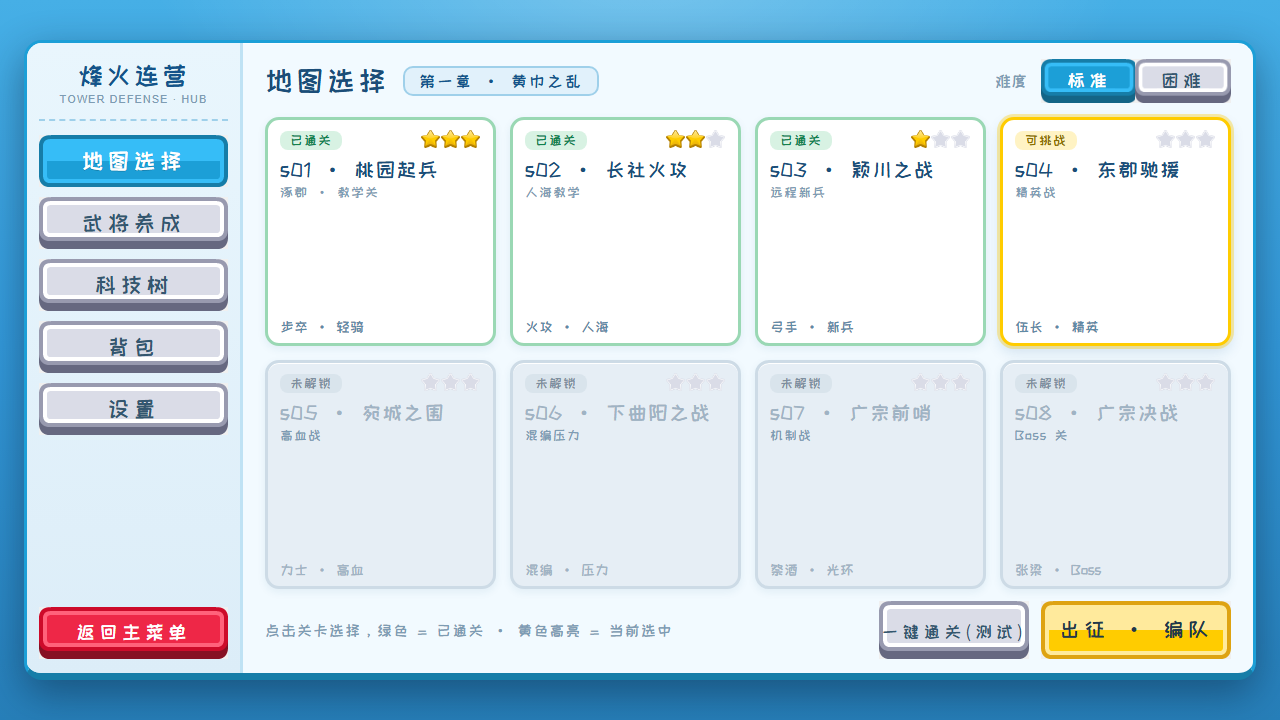
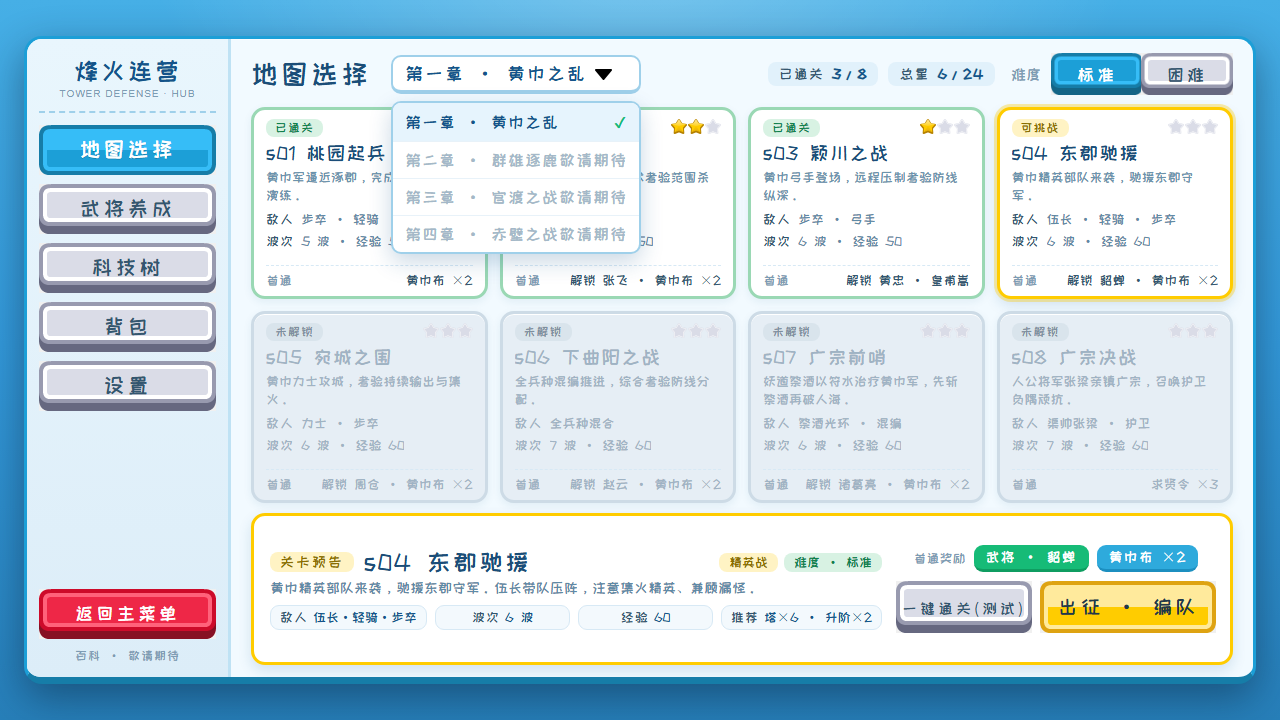
feat(v0.33.5): 阶段8·提交8延伸（程序0.8.8.5）——UI 概念图扩充与地图选关改版：大厅章节改顶部下拉+关卡卡片满档+底部关卡预告条+通关统计上移（ui_hub_map.png 覆盖更新），新增武将养成/科技树/背包/设置/编队五屏概念图（ui_develop·ui_tech·ui_inventory·ui_settings·ui_squad），科技树/背包/编队滚动容器兜底不撑爆，「出击费用」更名「建造费用」；UI_LAYOUT v0.14/GDD v0.33.5/README/project.godot 同步；冒烟/流程/存档契约/退出/养成刷新/转职弹窗/解锁复现回

diff --git a/README.md b/README.md
@@ -4,7 +4,7 @@
 
 ![游戏截图](docs/screenshot.png)
 
-## 当前状态：阶段 8 提交 5~8 完成（提交 5=职业技能收敛+虎贲重构+角色技能 v0.29.0 及修复延伸 0.8.5.1~0.8.5.6；提交 6=转职体系重构·职业级转职树 v0.31.0 / 0.8.6.0，延伸 0.8.6.1=v0.31.2 难度两档化+地图面板交互、0.8.6.2=v0.31.4 命中事件拆分（远程命中结算后计怒气/稳射）；提交 7=职业技能双轨 v0.32.0 / 0.8.7.0——6 个二转新技能接入（突袭/护卫/连矢/奇门/余音/震地）+ 强化显示规则 + 增益收敛档次 1 常驻光环桶，延伸 0.8.7.1=v0.32.1 武将养成切回整体重载、0.8.7.2=v0.32.2 一转确认弹窗修复（Godot4 canceled 信号）；提交 8=转职数值提升 v0.33.0 / 0.8.8.0——18 节点对照 SKILLS 4.1 三张表复核 + 非链式确认 + 效果型大招接入转职大招倍率（B-018）；延伸 0.8.8.1=v0.33.1 出征流程调整（编队页确认出战/返回选关/队伍记忆）+ 局内遗物永久使用 + 养成移除遗物页签、延伸 0.8.8.2=v0.33.2 编队羁绊标签裁剪修复（1/3 裁成 1/）+ 战场可建格悬停预览与引导文案澄清、延伸 0.8.8.3=v0.33.3 局内建造改拖拽（移除绿色+/推荐位/点击建造，武将虚影+攻击范围+绿红格提示，松手直建；卡片面板重设计）、延伸 0.8.8.4=v0.33.4 UI 视觉风格定稿与全局字体（Kenney 亮蓝概念图 docs/ui_concept/ + 站酷快乐体全局主题 assets/ui/ui_theme.tres））；下一步提交 9（游戏百科，原提交 5 放最后）→ 提交 10（数值基准测试，含增益收敛档次 2/3；职业/角色定位决策基准 v0.31.7）→ 阶段 9 待开发（文档 v0.33.4，程序 0.8.8.4）
+## 当前状态：阶段 8 提交 5~8 完成（提交 5=职业技能收敛+虎贲重构+角色技能 v0.29.0 及修复延伸 0.8.5.1~0.8.5.6；提交 6=转职体系重构·职业级转职树 v0.31.0 / 0.8.6.0，延伸 0.8.6.1=v0.31.2 难度两档化+地图面板交互、0.8.6.2=v0.31.4 命中事件拆分（远程命中结算后计怒气/稳射）；提交 7=职业技能双轨 v0.32.0 / 0.8.7.0——6 个二转新技能接入（突袭/护卫/连矢/奇门/余音/震地）+ 强化显示规则 + 增益收敛档次 1 常驻光环桶，延伸 0.8.7.1=v0.32.1 武将养成切回整体重载、0.8.7.2=v0.32.2 一转确认弹窗修复（Godot4 canceled 信号）；提交 8=转职数值提升 v0.33.0 / 0.8.8.0——18 节点对照 SKILLS 4.1 三张表复核 + 非链式确认 + 效果型大招接入转职大招倍率（B-018）；延伸 0.8.8.1=v0.33.1 出征流程调整（编队页确认出战/返回选关/队伍记忆）+ 局内遗物永久使用 + 养成移除遗物页签、延伸 0.8.8.2=v0.33.2 编队羁绊标签裁剪修复（1/3 裁成 1/）+ 战场可建格悬停预览与引导文案澄清、延伸 0.8.8.3=v0.33.3 局内建造改拖拽（移除绿色+/推荐位/点击建造，武将虚影+攻击范围+绿红格提示，松手直建；卡片面板重设计）、延伸 0.8.8.4=v0.33.4 UI 视觉风格定稿与全局字体（Kenney 亮蓝概念图 docs/ui_concept/ + 站酷快乐体全局主题 assets/ui/ui_theme.tres）、延伸 0.8.8.5=v0.33.5 UI 概念图扩五屏与大厅地图选关改版（顶部章节下拉/关卡预告条/滚动容器规范/建造费用术语统一））；下一步提交 9（游戏百科，原提交 5 放最后）→ 提交 10（数值基准测试，含增益收敛档次 2/3；职业/角色定位决策基准 v0.31.7）→ 阶段 9 待开发（文档 v0.33.5，程序 0.8.8.5）
 
 - 完整流程：主菜单 → 游戏大厅（地图/养成/科技/背包/设置）→ 编队 → 战斗 → 结算 → 解锁 → 存档；战斗退出确认后回游戏大厅，大厅侧栏「返回主菜单」回主菜单（v0.15.2 回归验证）
 - 重复游玩：概率掉落表、信物装备、科技树、三档难度（碎片升星与求贤抽奖已暂时移除 v0.30.0）
@@ -27,6 +27,7 @@
 - 阶段 8 提交 5（v0.29.0，落地）：职业技能收敛——6 职业各 1 个职业技能（骑兵蓄力/虎贲军旗/弓箭手稳射/术士奇谋/舞娘鼓舞/投石车破城），二转强化 `+`，稳射保底每 5 次触发，档位系数 s 按局内升阶 battle_rank 仅职业技能；虎贲重构——profession_id=tiger_guard 全链路更名 + 大招破阵（1.5× 范围伤害 + 击退 40px + 200px 激励段）+ 科技树职业分支同步；角色技能 9 名全部实现（关羽青龙偃月/张飞当阳桥/刘备携民渡江/黄忠定军山/貂蝉月下舞/皇甫嵩焚营/赵云七进七出/周仓死战/诸葛亮借东风，A 主动冷却 + B 漏怪/低血被动 + 冷却盘 UI）
 - 阶段 8 提交 8 延伸（v0.33.1，程序 0.8.8.1，出征流程与遗物调整）：选关页「出征」直达编队（原确认弹窗删除，防误触确认收敛到编队页）；编队页纵向分区定稿（武将区 → 羁绊提示 → 遗物区 → 底部固定操作条），「出征」按钮改「确认出战」+ 二次确认弹窗，返回改「返回选关」并保留关卡与难度；上次出战的武将与遗物持久记忆（存档 `squad_character_ids` / `squad_relic_ids`）自动预填；局内遗物改永久使用（获取即永久解锁、选带不消耗库存，v0.22.0 结算消耗规则废弃）；武将养成移除「遗物」页签（选带在编队页、库存与效果看背包页）
 - 阶段 8 提交 8 延伸（v0.33.2，程序 0.8.8.2，编队显示与战场可建辨识度）：编队卡片加宽至 232px（双羁绊武将选中态下"1/3"不再被裁成"1/"）；战场绿色 + 定位澄清为推荐建造位（软引导，任意空地可建），选中武将后鼠标扫过可建格显示半透明绿色悬停预览（道路/禁建/已占用格不显示），开局引导文案同步更新
+- 阶段 8 提交 8 延伸（v0.33.5，程序 0.8.8.5，UI 概念图扩五屏与大厅改版）：地图选关概念图改版（章节顶部下拉、关卡卡紧凑满档、底部「关卡预告」详情条、通关统计上移顶栏）；新增武将养成 / 科技树 / 背包 / 设置 / 编队五屏概念图存档 docs/ui_concept/（ui_develop/ui_tech/ui_inventory/ui_settings/ui_squad.png，内容对齐 UI_LAYOUT §5~§10）；科技树/背包/编队列表区滚动容器兜底不撑爆；「出击费用」更名「建造费用」
 - 阶段 8 提交 8 延伸（v0.33.3，程序 0.8.8.3，局内建造交互重构·拖拽建造）：移除绿色 + 推荐位 / 预锁位 / 点击建造与两次确认（B-021 悬停预览随点击建造退役）；按住武将卡片拖出建造——角色虚影 + 攻击范围圈 + 落点格绿（可建）/ 红（不可建），松手直接建造、右键/ESC/原地松手取消；武将卡片面板重设计（武将名/职业全名/Lv/费用，卡片即拖拽手柄，金币不足置灰）
 - 界面排版重构（v0.24.2 定稿，阶段 8 提交 4）：地图选关 2×4 网格一屏展示（去竖排滚动条）、武将养成页签化（基础信息+转职/信物/遗物/特性分页；升星随 v0.30.0 暂时移除）、全局语义色板统一（金=关键/绿=达标/红=不足/蓝=数值），设计规范见 docs/modules/UI_LAYOUT.md
 - 阶段 8 提交 5 延伸（v0.30.0，暂时移除）：升星系统（升星页签/星级成长 +5%/星）与求贤令抽将（求贤入口/保底/s08 求贤令×3/转盘求贤令）从玩法中暂时移除；存档字段与 GachaService 保留便于恢复；信物兑换与转盘碎片不受影响
@@ -104,5 +105,6 @@ assets/       美术资源分类目录（规范见 docs/modules/ART_ASSETS.md）
 | 10 | 玩法体验完善（挑战目标 + 系统渐进解锁） | 📝 v0.24.0 设计定稿，待排期 |
 
 完整设计基准见 [docs/GAME_DESIGN.md](docs/GAME_DESIGN.md)（总纲与索引）；各功能模块的详细设计位于 `docs/modules/`：角色（CHARACTERS）、职业（PROFESSIONS）、关卡（STAGES）、敌人（ENEMIES）、动作模组（BEHAVIORS）、数值（NUMBERS）、掉落与抽奖（DROPS_GACHA）、存档（SAVE_DATA）、UI。
+
 
 

diff --git a/docs/modules/UI_LAYOUT.md b/docs/modules/UI_LAYOUT.md
@@ -1,7 +1,8 @@
 # 界面排版设计规范（UI_LAYOUT）
 
 > 隶属《烽火连营·三国塔防》设计文档体系，总纲见 [../GAME_DESIGN.md](../GAME_DESIGN.md)，界面职责表见 [UI.md](UI.md)。
-> 文档版本：v0.13（2026-09-03）
+> 文档版本：v0.14（2026-09-03）
+> v0.14 变更（2026-09-03，UI 概念图扩充与地图选关改版，用户拍板 2026-09-03）：①**大厅·地图选关概念图改版**（`ui_hub_map.png` 覆盖更新）——章节选择移至顶部下拉框（后续章节灰显「敬请期待」）、关卡 2×4 卡片紧凑满档（状态/星级/一句话简介/敌人/波次·经验/首通奖励，数据对齐 `StageData` 与 STAGES.md）、通关统计上移顶栏、底部新增「关卡预告」详情条（敌人/波次/参战经验/推荐经济四栏 + 首通奖励徽章 + 出征按钮）；②**新增五屏概念图存档**——`ui_develop.png` 武将养成（左 2 列列表 + 右上基础信息卡 + 右下转职页签，属性按 `compute_stats_at` 实算）、`ui_tech.png` 科技树（四页签 + 三层节点状态色 + 底部详情）、`ui_inventory.png` 背包（类目筛选 + 网格 + 底部说明条，未获得信物灰卡示源）、`ui_settings.png` 设置（画面/音频/玩法/数据与关于分组）、`ui_squad.png` 编队（独立整屏：标题带关卡与难度 → 武将 3×3 → 羁绊提示条 → 队伍遗物 2/2 → 底部操作条，对应 §6）；③**滚动容器规范**——科技树/背包/编队列表区用可滚动容器（内容超出滚动兜底、不撑爆页面；滚动条样式统一浅蓝圆角）；④**术语统一**——「出击费用」更名「建造费用」（= 局内 `build_cost`，养成属性格与编队卡面同步）。
 > v0.13 变更（2026-09-03，UI 视觉风格定稿与全局字体，风格拍板 2026-09-03）：①**视觉风格方向定稿**——Kenney UI Pack 亮蓝底 + 站酷快乐体（Q 版活泼风），概念图存档 `docs/ui_concept/`（`ui_home.png` 首页 / `ui_dialog.png` 新的征程确认弹窗 / `ui_button_states.png` 按钮四态 / `ui_hub_map.png` 大厅·地图选择）；②**全局字体接入**——`assets/fonts/ZCOOL-Kuaile.ttf` + `assets/ui/ui_theme.tres`（默认字体=快乐体，回退微软雅黑/黑体等系统字体），`project.godot` `gui/theme/custom` 全量应用（冒烟/流程/回归测试全绿）；③**语义色映射**——Kenney 黄=主行动（UITheme GOLD 语义，视觉上以黄替金）、红=警示（RED）、灰=中性（GRAY）、蓝=信息（BLUE）、绿=成功（GREEN）；按钮四态（normal/hover/pressed/disabled）样式见 `ui_button_states.png`；正式换肤（按钮九宫格/面板底图/背景替换程序化色块）排期待定。
 > 文档版本：v0.12（2026-09-03）
 > v0.12 变更（2026-09-03，阶段 8·提交 8 延伸·修复 3，局内建造交互重构，用户拍板 2026-09-03）：①**建造方式唯一化为拖拽**——移除点击建造 / 两次点击确认 / 绿色 + 推荐位 / 预锁位解锁（B-021 悬停预览退役，可建反馈由拖拽虚影承担）；②**拖拽建造规范**——按住顶部武将卡片拖出：角色半透明虚影 + 攻击范围圈（同实塔计算）跟随鼠标，落点格可建=绿、不可建=红（道路/禁建/已占用/越界/金币不足/战后）；松手直接建造，右键 / ESC / 原地松手取消；拖入顶栏 / 卡条等 UI 区虚影隐藏、松手取消；③**武将卡片面板重设计**——武将名 / 职业全名 / Lv（蓝）/ 费用（金），卡片即拖拽手柄（按下金色高亮），金币不足置灰不可拖；原“选中武将”概念删除。
@@ -130,4 +131,5 @@
 - 不做移动端/窗口自适应（分辨率固定 1280×720）。
 - 不重做战斗场景布局（`Main.tscn` 已有基础，仅按本规范调整色板与信息层级）。
 - 星级展示仅预留 UI 位，挑战目标系统本体在阶段 10 开发。
+
 
